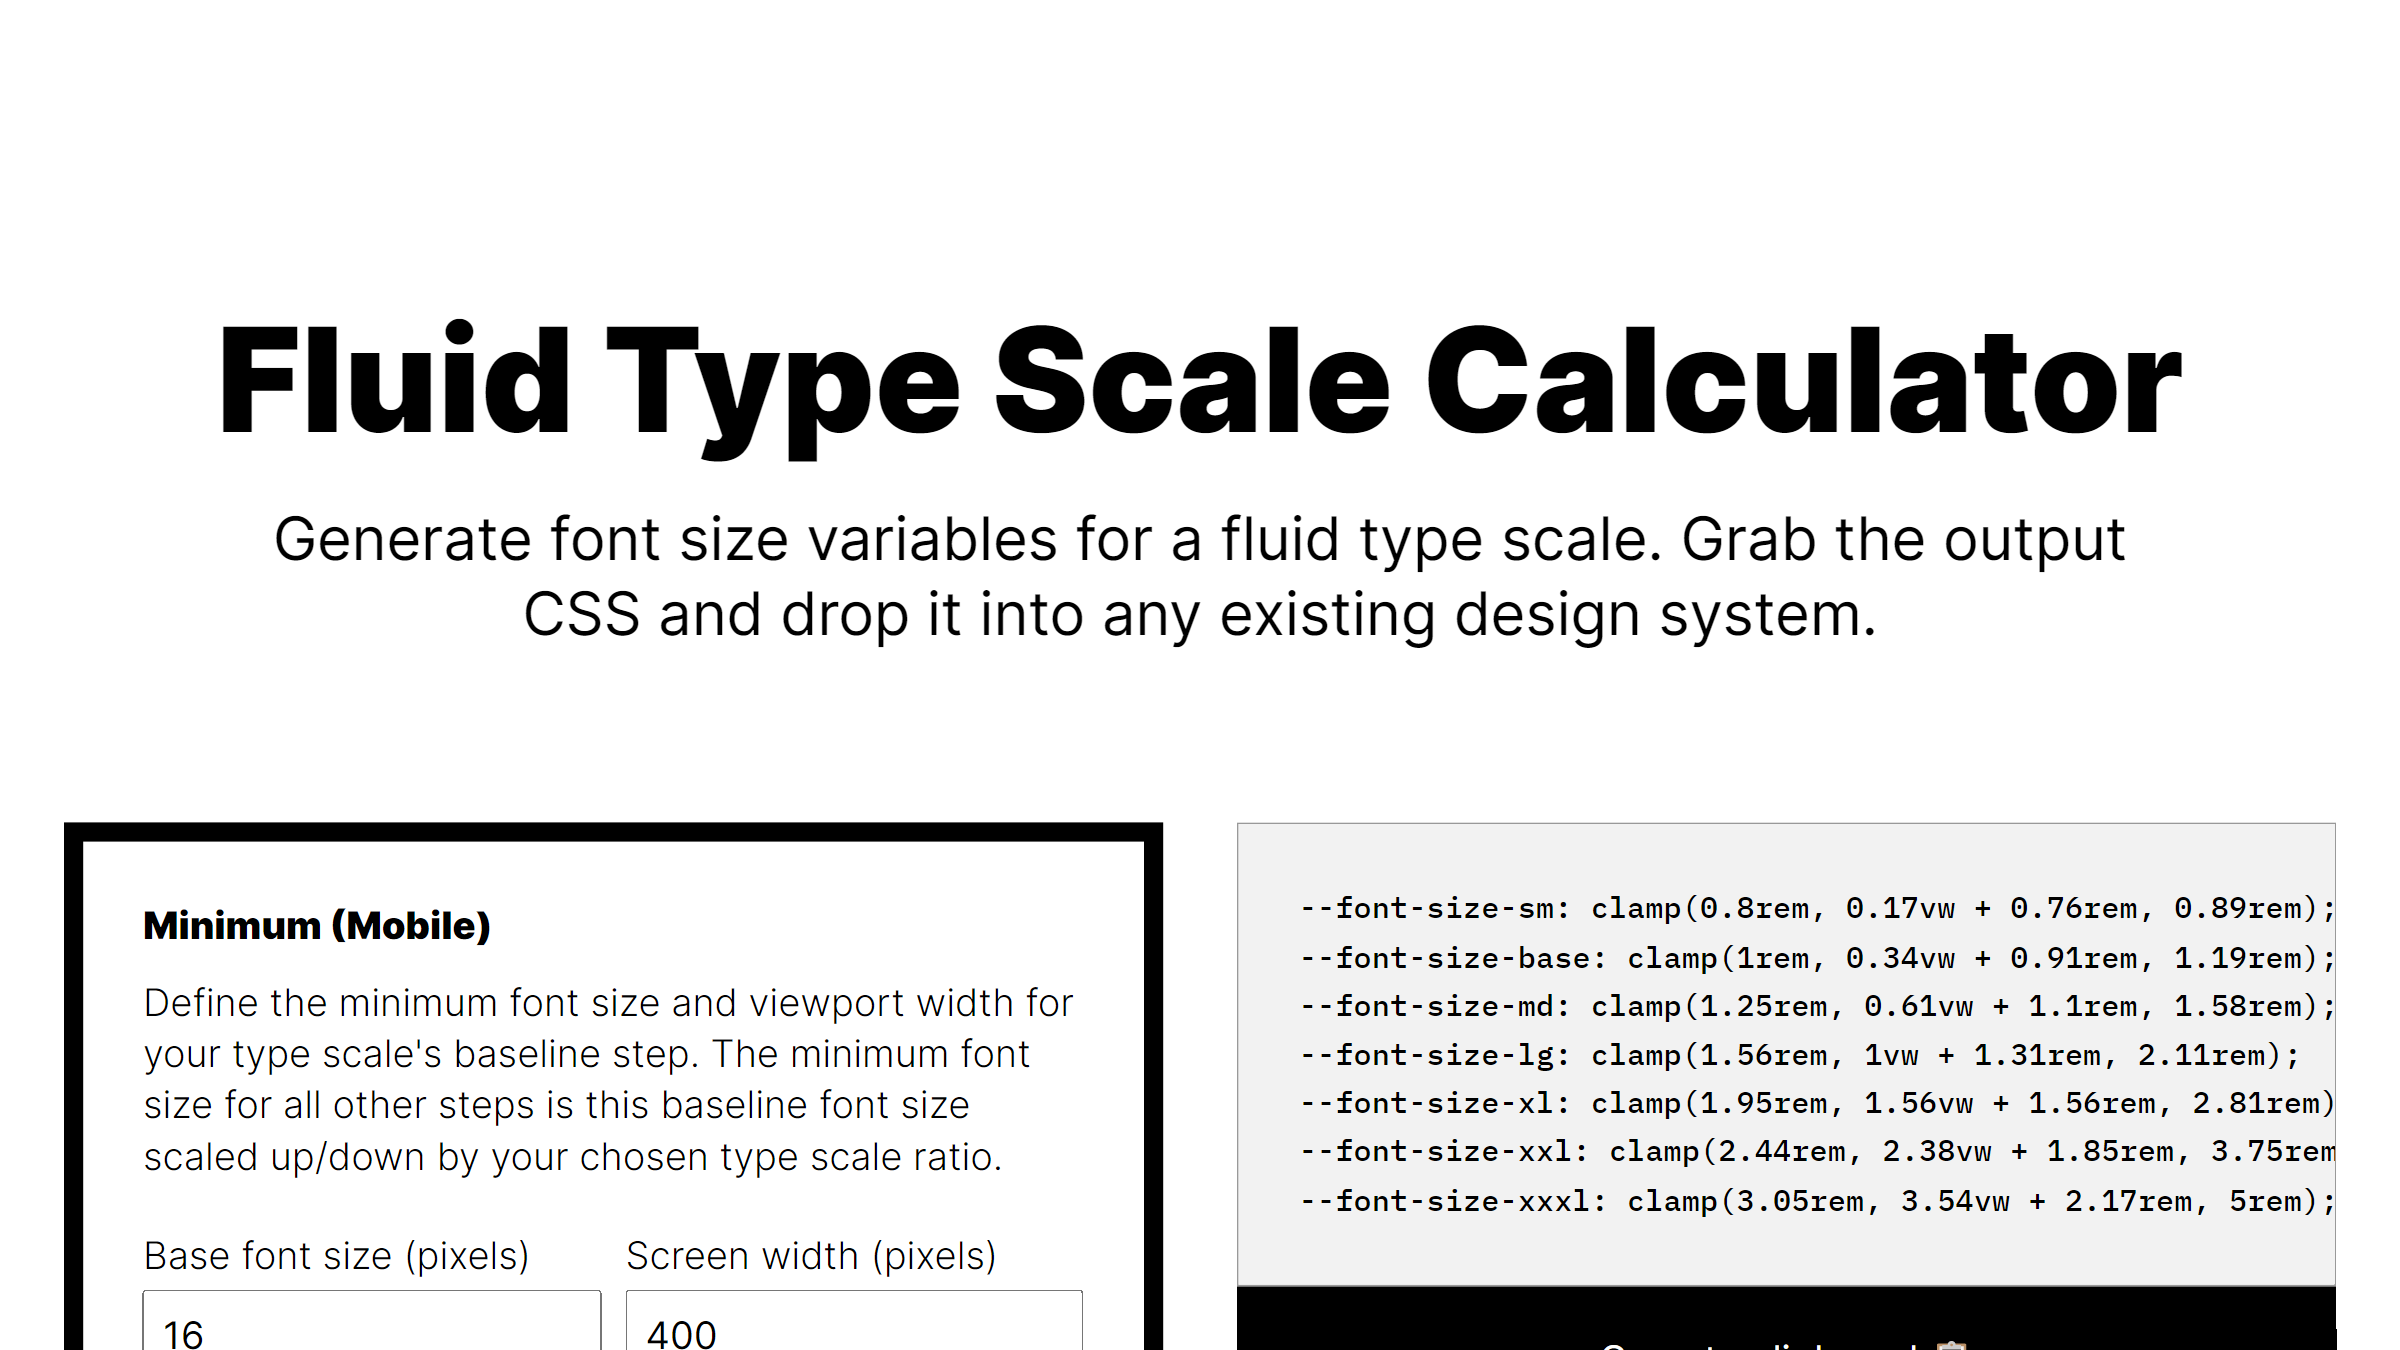
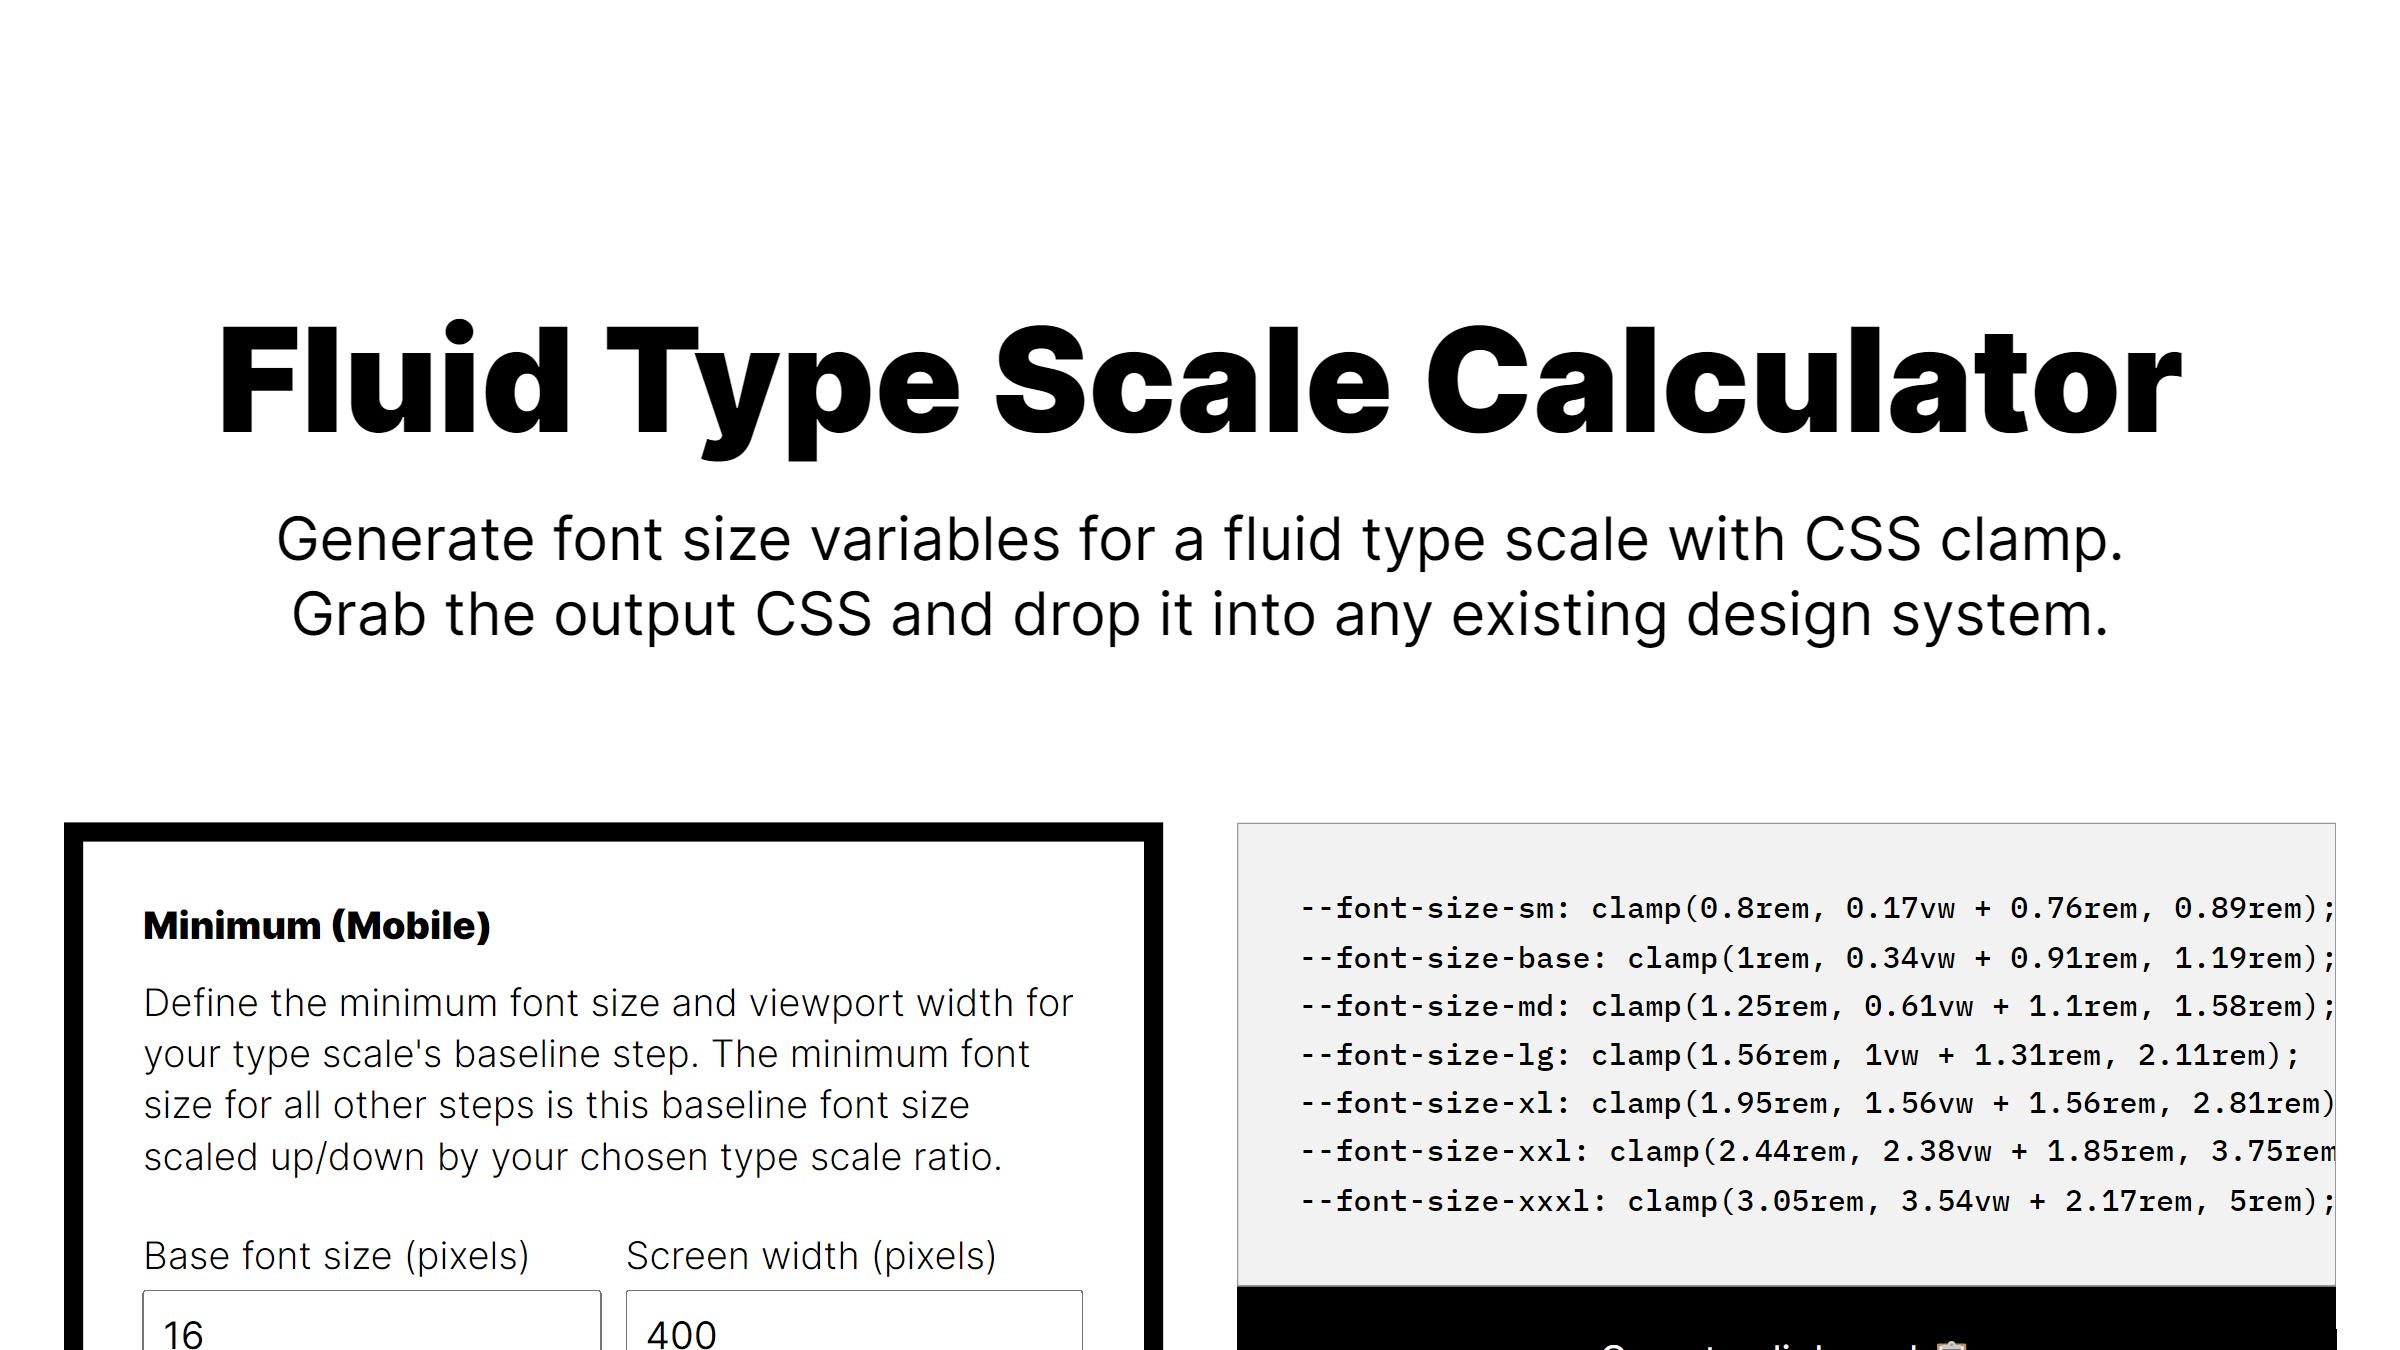
Improve SEO

Changed region(s): [[0.125, 0.3733, 0.875, 0.4978]]

diff --git a/src/_data/site.js b/src/_data/site.js
@@ -11,8 +11,9 @@ module.exports = {
   title: 'Fluid Type Scale Calculator',
   author: 'Aleksandr Hovhannisyan',
   email: 'aleksandrhovhannisyan@gmail.com',
-  description: 'Generate font size variables for a fluid type scale.',
-  keywords: ['fluid type scale', 'modular scale', 'type scale'],
+  description:
+    'Generate font size variables for a fluid type scale with CSS clamp. Grab the output CSS and drop it into any existing design system.',
+  keywords: ['fluid type scale', 'type scale', 'CSS clamp'],
   language: 'en-US',
   favicon: {
     widths: [32, 57, 76, 96, 128, 192, 228],

diff --git a/src/_pages/index.html b/src/_pages/index.html
@@ -7,7 +7,7 @@ eleventyComputed:
 <main id="app">
   <header>
     <h1 class="title">{{ site.title }}</h1>
-    <p class="subtitle">Generate font size variables for a fluid type scale. Grab the output CSS and drop it into any existing design system.</p>
+    <p class="subtitle">{{ site.description }}</p>
   </header>
   {% react 'components/FluidTypeScaleGenerator' 'fonts' googleFonts %}
   <div class="stack info">

diff --git a/README.md b/README.md
@@ -1,6 +1,6 @@
 # Fluid Type Scale Calculator
 
-> Generate font size variables for a fluid type scale.
+> Generate font size variables for a fluid type scale with CSS clamp.
 
 ## Overview
 
